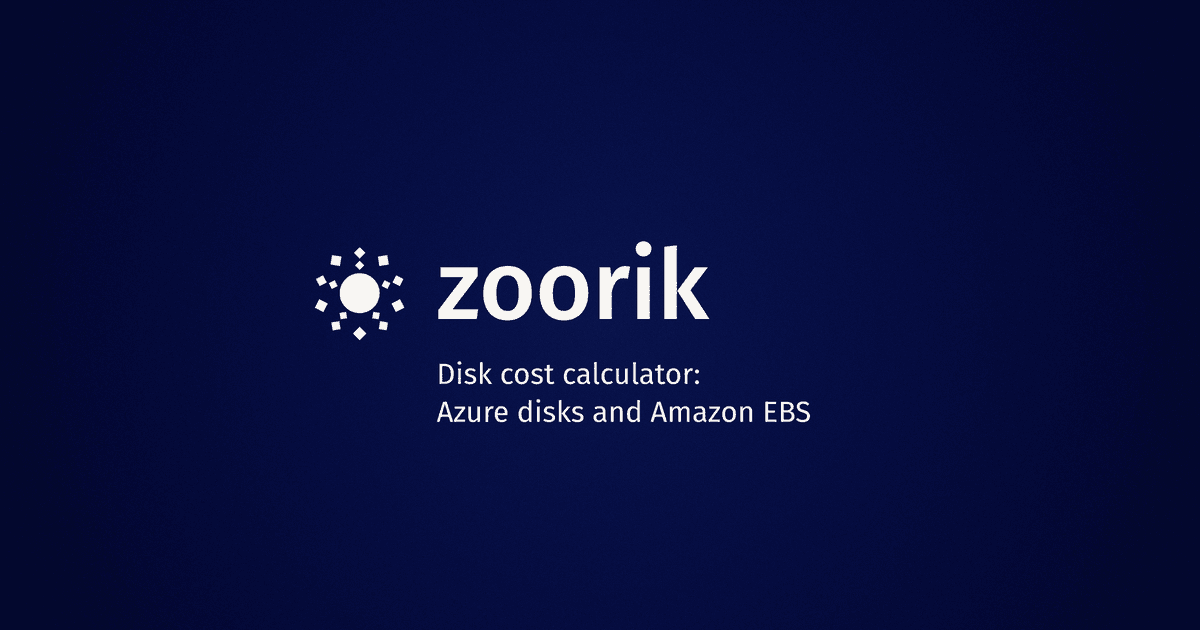
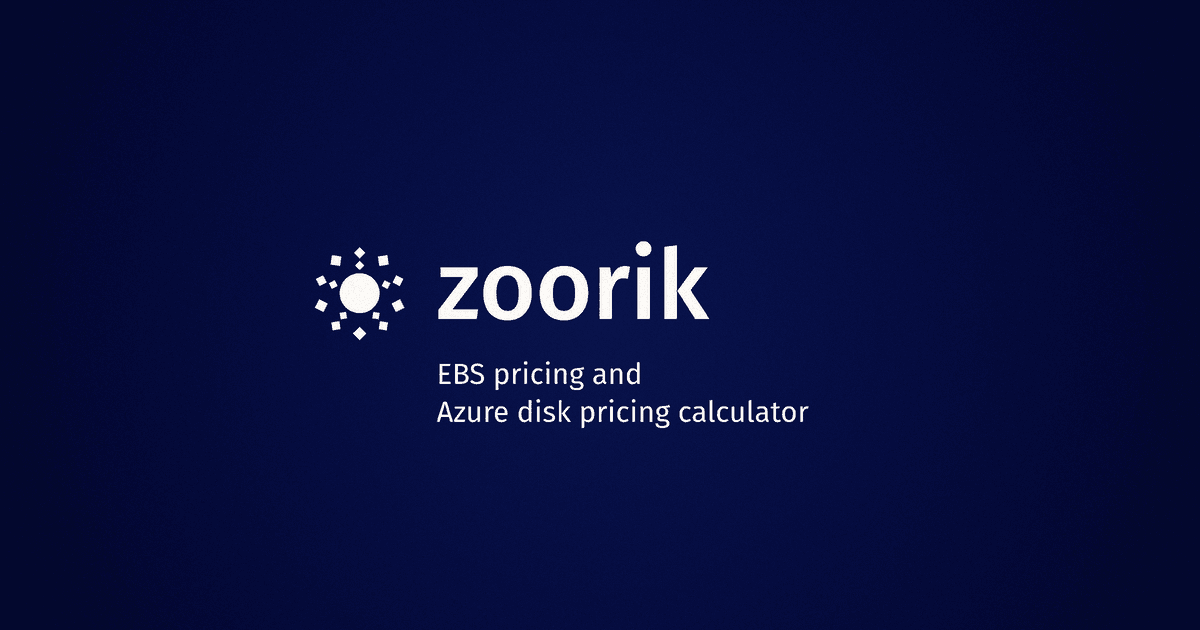
Share cards for the 1 Nov release: 48 Learn pages, retitled pages and 4 new pages
Every card is drawn by the brand kit (brand/_tools/build_og_pages.py from
og_pages.json) and stored as before: an 8-bit palette PNG, ffmpeg
palettegen=max_colors=14 and paletteuse=dither=none, 163-197 KB each.

- New: one card for each of the 44 articles and 4 guides going live in this
  release, the article's own title in one or two lines, with its pageCards row.
  how-many-kubernetes-clusters is held back and gets none.
- New name where a live card's words change (platforms cache cards by URL):
  /coral "Kubernetes optimization for AKS and EKS" (O1); the two pillars, now
  named for their addresses, "Cloud cost optimization: how to reduce cloud
  costs" and "Kubernetes cost optimization: requests, then nodes"; vpa-vs-hpa,
  kubernetes-pod-right-sizing (was "Kubernetes pod rebalancing"),
  shrink-azure-managed-disk and poor-architecture-cloud-bill under their new
  titles; the library "Cloud cost optimization tools and FinOps tools"; the
  FinOps term "What is FinOps? Cloud FinOps explained"; /value-lab "What Coral
  and Amoeba reduced, every figure at list prices" (no "bill"). The ten cards
  they replace are removed.
- The two calculators take their Part 4 titles under their D230 file names,
  which no platform has fetched yet.
- The cards of the four new pages (/azure-cost-optimization,
  /aws-cost-optimization and the two library versus pages) are in
  public/og/pages; their pageCards rows come with the pages.
[…]

Changed region(s): [[0.37, 0.573, 0.6783, 0.6937]]

diff --git a/src/config/social.ts b/src/config/social.ts
@@ -58,7 +58,11 @@ const CARDS: readonly {
   readonly words: string;
   readonly paths: readonly `/${string}`[];
 }[] = [
-  { file: "coral", words: "Kubernetes cost optimization on AKS and EKS", paths: ["/coral"] },
+  {
+    file: "coral-kubernetes-optimization",
+    words: "Kubernetes optimization for AKS and EKS",
+    paths: ["/coral"],
+  },
   { file: "amoeba", words: "Block storage cost optimization on Azure and AWS", paths: ["/amoeba"] },
   /* Each product on each cloud, then the six pages on what Coral works with (31 Oct 2026). */
   {
@@ -145,8 +149,8 @@ const CARDS: readonly {
   { file: "open-source", words: "Open source", paths: ["/open-source"] },
   { file: "learn", words: "Cloud cost optimization guides", paths: ["/learn"] },
   {
-    file: "cloud-cost-optimization-tools",
-    words: "Cloud cost optimization tools",
+    file: "cloud-cost-optimization-and-finops-tools",
+    words: "Cloud cost optimization tools and FinOps tools",
     paths: [routes.cloudCostTools],
   },
   {
@@ -160,8 +164,8 @@ const CARDS: readonly {
     paths: comparisonsOf("amoeba"),
   },
   {
-    file: "value-lab",
-    words: "What Coral and Amoeba reduced on real cloud bills",
+    file: "value-lab-at-list-prices",
+    words: "What Coral and Amoeba reduced, every figure at list prices",
     paths: ["/value-lab"],
   },
   {
@@ -194,12 +198,12 @@ const CARDS: readonly {
   { file: "security", words: "Security and data handling", paths: ["/security"] },
   {
     file: "eks-and-aks-pricing-calculator",
-    words: "Kubernetes node cost calculator",
+    words: "EKS pricing calculator: AKS and EKS node cost",
     paths: [routes.eksAndAksPricingCalculator],
   },
   {
     file: "ebs-and-azure-disk-pricing",
-    words: "Disk cost calculator: Azure disks and Amazon EBS",
+    words: "EBS pricing and Azure disk pricing calculator",
     paths: [routes.ebsAndAzureDiskPricing],
   },
   { file: "pricing", words: "How Coral and Amoeba are priced", paths: [routes.pricing] },
@@ -227,8 +231,8 @@ const CARDS: readonly {
     paths: ["/learn/find-unattached-disks-azure"],
   },
   {
-    file: "learn-how-to-reduce-cloud-costs",
-    words: "How to reduce cloud costs: what moves the bill",
+    file: "cloud-cost-optimization",
+    words: "Cloud cost optimization: how to reduce cloud costs",
     paths: [routes.cloudCostOptimization],
   },
   {
@@ -242,26 +246,30 @@ const CARDS: readonly {
     paths: ["/learn/kubernetes-cost-estimation"],
   },
   {
-    file: "learn-kubernetes-pod-right-sizing",
-    words: "Kubernetes pod rebalancing",
+    file: "learn-kubernetes-pod-right-sizing-step-by-step",
+    words: "Kubernetes pod right sizing, step by step",
     paths: ["/learn/kubernetes-pod-right-sizing"],
   },
   {
-    file: "learn-poor-architecture-cloud-bill",
-    words: "How poor architecture increases your cloud bill",
+    file: "learn-poor-architecture-cloud-costs",
+    words: "How poor architecture increases your cloud costs",
     paths: ["/learn/poor-architecture-cloud-bill"],
   },
   {
-    file: "learn-reduce-kubernetes-cost",
-    words: "How to reduce Kubernetes cost: requests, then nodes",
+    file: "kubernetes-cost-optimization",
+    words: "Kubernetes cost optimization: requests, then nodes",
     paths: [routes.kubernetesCostOptimization],
   },
   {
-    file: "learn-shrink-azure-managed-disk",
-    words: "Can a managed disk shrink?",
+    file: "learn-reduce-azure-disk-size",
+    words: "Reduce Azure disk size: can a managed disk shrink?",
     paths: ["/learn/shrink-azure-managed-disk"],
   },
-  { file: "learn-vpa-vs-hpa", words: "VPA vs HPA", paths: ["/learn/vpa-vs-hpa"] },
+  {
+    file: "learn-hpa-vs-vpa-in-kubernetes",
+    words: "HPA vs VPA in Kubernetes: when to use which",
+    paths: ["/learn/vpa-vs-hpa"],
+  },
   {
     file: "learn-azure-vm-disk-usage",
     words: "Azure VM disk usage: check used vs provisioned",
@@ -311,6 +319,247 @@ const CARDS: readonly {
     file: "learn-azure-disk-snapshot-cost",
     words: "Azure disk snapshot cost: incremental vs full",
     paths: ["/learn/azure-disk-snapshot-cost"],
+  },
+  /* The articles and guides of the 1 Nov 2026 release, each by its title. */
+  {
+    file: "learn-aks-cost-analysis",
+    words: "AKS cost analysis: what the add-on shows",
+    paths: ["/learn/aks-cost-analysis"],
+  },
+  {
+    file: "learn-aks-node-auto-provisioning",
+    words: "AKS node auto provisioning (NAP): how to enable it",
+    paths: ["/learn/aks-node-auto-provisioning"],
+  },
+  {
+    file: "learn-aks-storage-classes",
+    words: "AKS storage classes: which Azure disk each creates",
+    paths: ["/learn/aks-storage-classes"],
+  },
+  {
+    file: "learn-aks-vs-eks-cost",
+    words: "AKS vs EKS cost: control plane fees and nodes",
+    paths: ["/learn/aks-vs-eks-cost"],
+  },
+  {
+    file: "learn-azure-disk-expand-without-downtime",
+    words: "Azure disk expand without downtime, step by step",
+    paths: ["/learn/azure-disk-expand-without-downtime"],
+  },
+  {
+    file: "learn-azure-disk-iops-vs-throughput",
+    words: "Azure disk IOPS vs throughput: what limits disks",
+    paths: ["/learn/azure-disk-iops-vs-throughput"],
+  },
+  {
+    file: "learn-azure-disk-lrs-vs-zrs",
+    words: "Azure disk LRS vs ZRS: what zone redundancy costs",
+    paths: ["/learn/azure-disk-lrs-vs-zrs"],
+  },
+  {
+    file: "learn-azure-disk-performance-tiers",
+    words: "Azure disk performance tiers and bursting",
+    paths: ["/learn/azure-disk-performance-tiers"],
+  },
+  {
+    file: "learn-azure-managed-disk-types",
+    words: "Azure disk types: pricing and how to choose",
+    paths: ["/learn/azure-managed-disk-types"],
+  },
+  {
+    file: "learn-azure-vm-disk-space-alert",
+    words: "Azure VM disk space alert in Azure Monitor",
+    paths: ["/learn/azure-vm-disk-space-alert"],
+  },
+  {
+    file: "learn-btrfs-device-remove",
+    words: "btrfs device remove: take a disk out of a pool",
+    paths: ["/learn/btrfs-device-remove"],
+  },
+  {
+    file: "learn-btrfs-vs-lvm",
+    words: "btrfs vs LVM: which one can shrink on a cloud VM?",
+    paths: ["/learn/btrfs-vs-lvm"],
+  },
+  {
+    file: "learn-change-aks-node-pool-vm-size",
+    words: "How to change an AKS node pool VM size",
+    paths: ["/learn/change-aks-node-pool-vm-size"],
+  },
+  {
+    file: "learn-cluster-autoscaler-overprovisioning",
+    words: "Cluster Autoscaler overprovisioning with pause pods",
+    paths: ["/learn/cluster-autoscaler-overprovisioning"],
+  },
+  {
+    file: "learn-combine-ebs-volumes",
+    words: "Combine EBS volumes into one: LVM, RAID 0 or btrfs",
+    paths: ["/learn/combine-ebs-volumes"],
+  },
+  {
+    file: "learn-compute-optimizer-ebs",
+    words: "AWS Compute Optimizer for EBS: what it recommends",
+    paths: ["/learn/compute-optimizer-ebs"],
+  },
+  {
+    file: "learn-cordon-vs-drain",
+    words: "Cordon vs drain in Kubernetes: what each does",
+    paths: ["/learn/cordon-vs-drain"],
+  },
+  {
+    file: "learn-ebs-elastic-volumes",
+    words: "EBS Elastic Volumes: what you can and can’t change",
+    paths: ["/learn/ebs-elastic-volumes"],
+  },
+  {
+    file: "learn-ebs-snapshot-cost",
+    words: "EBS snapshot cost: pricing and how to reduce it",
+    paths: ["/learn/ebs-snapshot-cost"],
+  },
+  {
+    file: "learn-ebs-volume-types",
+    words: "EBS volume types: pricing and how to choose",
+    paths: ["/learn/ebs-volume-types"],
+  },
+  {
+    file: "learn-gp2-vs-gp3",
+    words: "gp2 vs gp3: pricing, performance and migration",
+    paths: ["/learn/gp2-vs-gp3"],
+  },
+  {
+    file: "learn-how-to-choose-aks-node-sizes",
+    words: "How to choose AKS node sizes: VM series and price",
+    paths: ["/learn/how-to-choose-aks-node-sizes"],
+  },
+  {
+    file: "learn-how-to-choose-eks-instance-types",
+    words: "EKS instance types: how to choose family and size",
+    paths: ["/learn/how-to-choose-eks-instance-types"],
+  },
+  {
+    file: "learn-in-place-pod-resize",
+    words: "In-place pod resize on Kubernetes, AKS and EKS",
+    paths: ["/learn/in-place-pod-resize"],
+  },
+  {
+    file: "learn-increase-ebs-volume-size",
+    words: "Increase EBS volume size without downtime on Linux",
+    paths: ["/learn/increase-ebs-volume-size"],
+  },
+  {
+    file: "learn-io2-vs-gp3",
+    words: "io2 vs gp3: when Provisioned IOPS is worth it",
+    paths: ["/learn/io2-vs-gp3"],
+  },
+  {
+    file: "learn-is-btrfs-stable",
+    words: "Is btrfs stable in 2026? Feature by feature",
+    paths: ["/learn/is-btrfs-stable"],
+  },
+  {
+    file: "learn-karpenter-consolidation",
+    words: "Karpenter consolidation: policies, budgets, limits",
+    paths: ["/learn/karpenter-consolidation"],
+  },
+  {
+    file: "learn-karpenter-cost-optimization",
+    words: "Karpenter cost optimization: the request gap",
+    paths: ["/learn/karpenter-cost-optimization"],
+  },
+  {
+    file: "learn-karpenter-vs-cluster-autoscaler",
+    words: "Karpenter vs Cluster Autoscaler on EKS and AKS",
+    paths: ["/learn/karpenter-vs-cluster-autoscaler"],
+  },
+  {
+    file: "learn-keda-vs-hpa-vs-vpa",
+    words: "KEDA vs HPA vs VPA: where event-driven scaling fits",
+    paths: ["/learn/keda-vs-hpa-vs-vpa"],
+  },
+  {
+    file: "learn-kubernetes-bin-packing",
+    words: "Kubernetes bin packing: same pods, fewer nodes",
+    paths: ["/learn/kubernetes-bin-packing"],
+  },
+  {
+    file: "learn-kubernetes-descheduler",
+    words: "Kubernetes descheduler: what it moves and when",
+    paths: ["/learn/kubernetes-descheduler"],
+  },
+  {
+    file: "learn-kubernetes-drain-node-without-downtime",
+    words: "How to drain a Kubernetes node without downtime",
+    paths: ["/learn/kubernetes-drain-node-without-downtime"],
+  },
+  {
+    file: "learn-kubernetes-node-size-best-practices",
+    words: "Kubernetes node size best practices on AKS and EKS",
+    paths: ["/learn/kubernetes-node-size-best-practices"],
+  },
+  {
+    file: "learn-kubernetes-overprovisioning",
+    words: "Kubernetes overprovisioning: how to measure it",
+    paths: ["/learn/kubernetes-overprovisioning"],
+  },
+  {
+    file: "learn-oomkilled-exit-code-137",
+    words: "OOMKilled exit code 137 in Kubernetes: how to fix",
+    paths: ["/learn/oomkilled-exit-code-137"],
+  },
+  {
+    file: "learn-pod-affinity-vs-node-affinity",
+    words: "Pod affinity vs node affinity: what each decides",
+    paths: ["/learn/pod-affinity-vs-node-affinity"],
+  },
+  {
+    file: "learn-pod-disruption-budget-best-practices",
+    words: "Pod disruption budget best practices: AKS and EKS",
+    paths: ["/learn/pod-disruption-budget-best-practices"],
+  },
+  {
+    file: "learn-premium-ssd-v2-vs-premium-ssd",
+    words: "Premium SSD v2 vs Premium SSD: which costs less",
+    paths: ["/learn/premium-ssd-v2-vs-premium-ssd"],
+  },
+  {
+    file: "learn-premium-ssd-vs-standard-ssd-azure",
+    words: "Premium SSD vs Standard SSD on Azure: cost and IOPS",
+    paths: ["/learn/premium-ssd-vs-standard-ssd-azure"],
+  },
+  {
+    file: "learn-remove-disk-from-lvm",
+    words: "Remove a disk from LVM without losing data",
+    paths: ["/learn/remove-disk-from-lvm"],
+  },
+  {
+    file: "learn-resize-pvc-kubernetes",
+    words: "Resize a PVC in Kubernetes, and why it can’t shrink",
+    paths: ["/learn/resize-pvc-kubernetes"],
+  },
+  {
+    file: "learn-resize2fs-shrink-ext4",
+    words: "resize2fs shrink ext4: why it must be unmounted",
+    paths: ["/learn/resize2fs-shrink-ext4"],
+  },
+  {
+    file: "learn-shrink-ebs-volume",
+    words: "How to shrink an EBS volume when it only grows",
+    paths: ["/learn/shrink-ebs-volume"],
+  },
+  {
+    file: "learn-topology-spread-constraints",
+    words: "Topology spread constraints: maxSkew and scale-down",
+    paths: ["/learn/topology-spread-constraints"],
+  },
+  {
+    file: "learn-what-is-karpenter",
+    words: "What is Karpenter? How it picks and removes nodes",
+    paths: ["/learn/what-is-karpenter"],
+  },
+  {
+    file: "learn-what-is-keda",
+    words: "What is KEDA in Kubernetes? Event-driven scaling",
+    paths: ["/learn/what-is-keda"],
   },
   /* The glossary's hub, then each term by its h1. */
   {
@@ -489,8 +738,8 @@ const CARDS: readonly {
     paths: ["/learn/glossary/ephemeral-os-disk"],
   },
   {
-    file: "glossary-finops",
-    words: "What is FinOps?",
+    file: "glossary-finops-cloud-finops-explained",
+    words: "What is FinOps? Cloud FinOps explained",
     paths: ["/learn/glossary/finops"],
   },
   {

diff --git a/src/features/learn/article-page.test.tsx b/src/features/learn/article-page.test.tsx
@@ -268,7 +268,8 @@ describe("the Learn articles at the site's root (D230)", () => {
       expect(metadata).toEqual(articleMetadata(article));
       expect(metadata.alternates).toEqual({ canonical: route });
       expect(metadata.openGraph).toMatchObject({ url: route, images: [articleCard(article)] });
-      expect(articleCard(article).url).toBe(`/og/pages/learn-${article.slug}.png`);
+      /* Named for the address since its title moved there (1 Nov 2026). */
+      expect(articleCard(article).url).toBe(`/og/pages${route}.png`);
     }
   });
 });
@@ -709,7 +710,7 @@ describe("/learn/poor-architecture-cloud-bill, against its draft", () => {
   });
 
   it("ships its share card within its size budget", () => {
-    const file = "public/og/pages/learn-poor-architecture-cloud-bill.png";
+    const file = "public/og/pages/learn-poor-architecture-cloud-costs.png";
     expect(readFileSync(file).length / 1024, file).toBeLessThan(200);
   });
 });

diff --git a/src/features/learn/glossary-page.test.tsx b/src/features/learn/glossary-page.test.tsx
@@ -233,7 +233,10 @@ describe.each(glossaryTerms.map((term) => term.slug))("/learn/glossary/%s", (slu
       images: [termCard(term)],
     });
     expect(termCard(term)).toBe(pageCards[route]);
-    expect(termCard(term).url).toBe(`/og/pages/glossary-${slug}.png`);
+    /* A redrawn card keeps the term's name and adds its new words: platforms cache cards by URL. */
+    expect(termCard(term).url).toMatch(
+      new RegExp(`^/og/pages/glossary-${slug}(-[a-z0-9-]+)?\\.png$`),
+    );
   });
 
   it("opens on the utility hero: the trail back to Learn and the glossary over the h1, and no deck", async () => {
